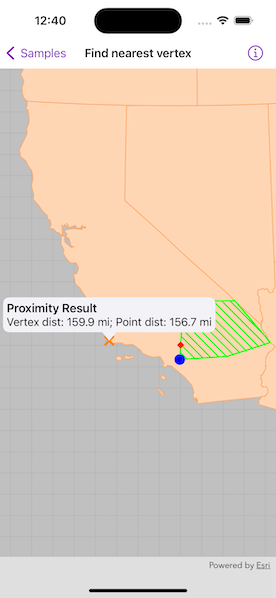
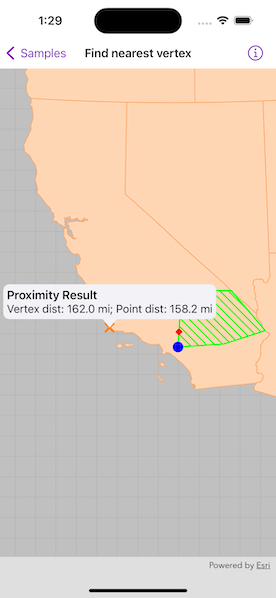
Update screenshot

diff --git a/Shared/Samples/Find nearest vertex/FindNearestVertexView.swift b/Shared/Samples/Find nearest vertex/FindNearestVertexView.swift
@@ -23,7 +23,9 @@ struct FindNearestVertexView: View {
         // Create a map view to display the map.
         MapView(map: model.map, graphicsOverlays: [model.graphicsOverlay])
             .onSingleTapGesture { _, mapPoint in
-                model.tapLocation = mapPoint
+                // Normalize map point.
+                guard let normalizedMapPoint = GeometryEngine.normalizeCentralMeridian(of: mapPoint) as? Point else { return }
+                model.tapLocation = normalizedMapPoint
                 if model.calloutPlacement == nil {
                     // Draw the point graphics.
                     model.drawNearestPoints()
@@ -60,13 +62,13 @@ private extension FindNearestVertexView {
     // The view model for the sample.
     private class Model: ObservableObject {
         /// A map with a generalized US states feature layer and centered on
-        /// the example polygon.
+        /// the example polygon in California.
         var map = Map()
         
         /// The GraphicsOverlay for the point and polygon graphics.
         let graphicsOverlay = GraphicsOverlay()
         
-        /// The orange cross graphic for the tapped location point.
+        /// The orange cross graphic for the tap location point.
         let tapLocationGraphic: Graphic = {
             let symbol = SimpleMarkerSymbol(style: .x, color: .orange, size: 15)
             return Graphic(symbol: symbol)
